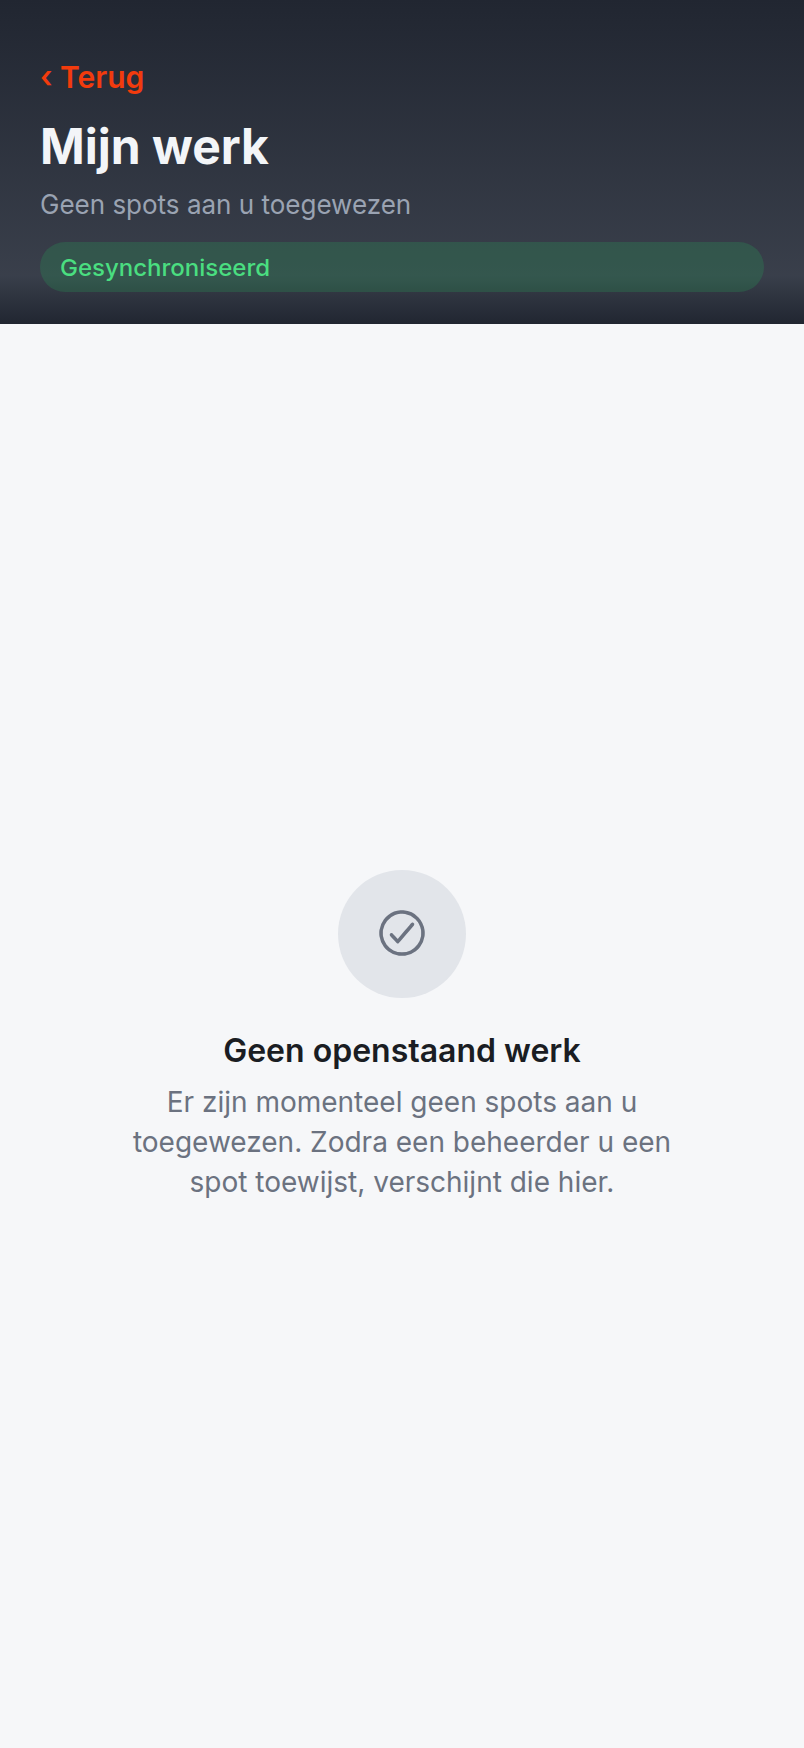
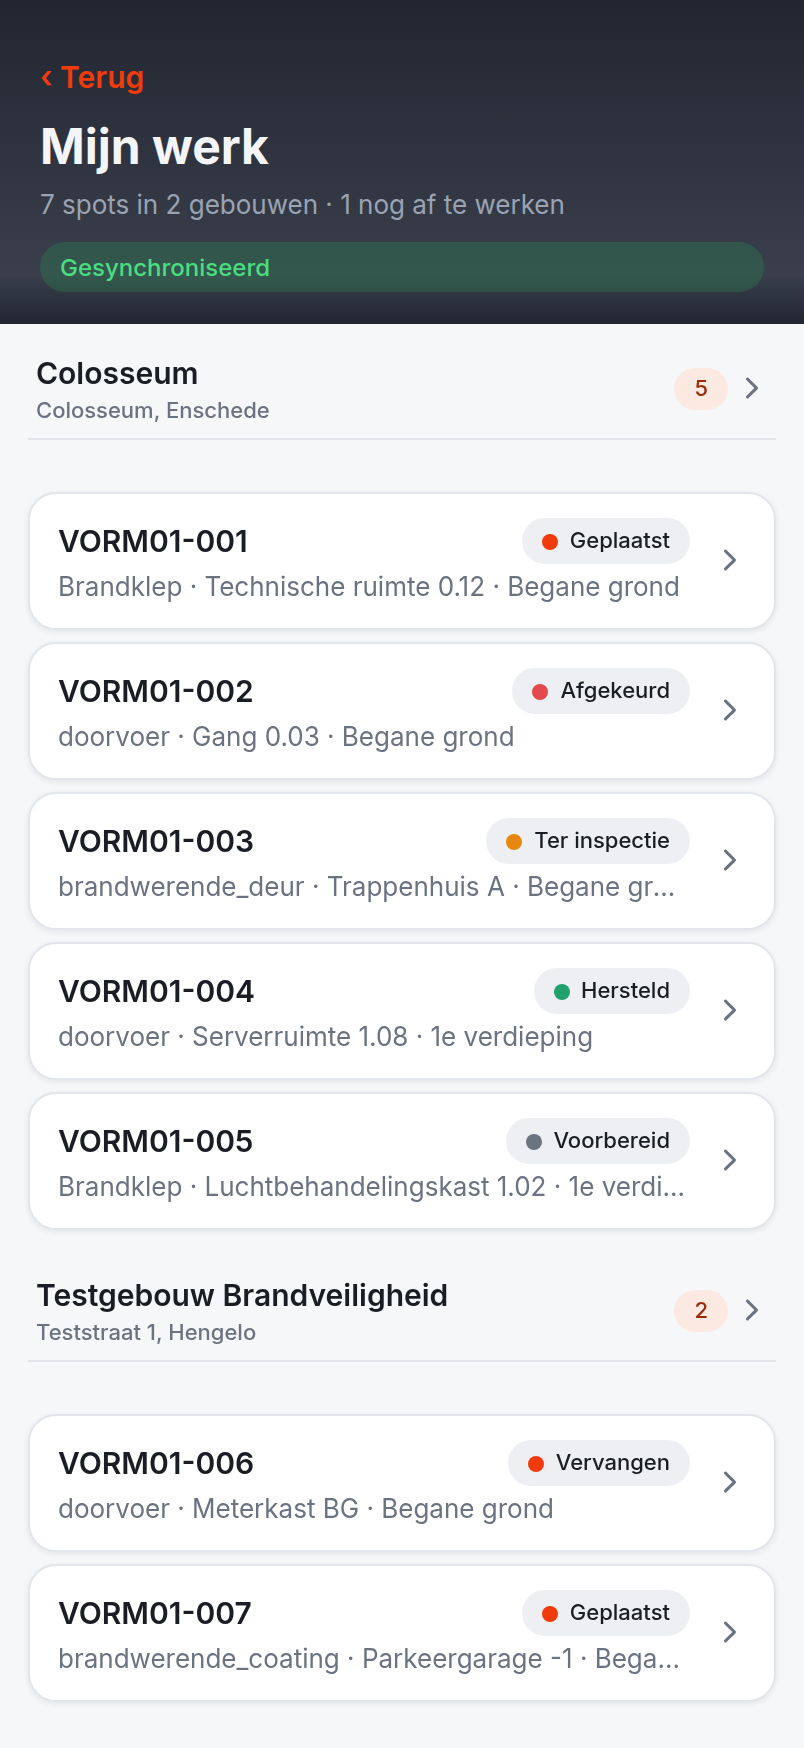
VORM_01 herbewijs: gevulde testdata (vorm01-testdata.ts), vóór/ná mijn-werk met inhoud, accent terug in LegeStatus, SCHERMEN-filter + retry in schermafdrukken

diff --git a/scripts/src/vorm01-testdata.ts b/scripts/src/vorm01-testdata.ts
@@ -1,0 +1,74 @@
+// VORM_01 herbewijs — vult de dev-database met representatieve spots voor het
+// e2e-monteursaccount, zodat het bewijsscherm app/mijn-werk.tsx met échte
+// rijen, statussen en secties kan worden afgebeeld (eis René 10-08).
+//
+// Idempotent: spots zijn herkenbaar aan objectnummer-prefix "VORM01-" en
+// worden bij elke run eerst opgeruimd. MODUS=weg ruimt alleen op.
+//
+// Draaien: pnpm --filter @workspace/scripts exec tsx src/vorm01-testdata.ts
+import { db } from "@workspace/db";
+import { sql } from "drizzle-orm";
+
+import { setupE2eAccount } from "./e2e-monteur-testaccount";
+
+const ALLEEN_OPRUIMEN = process.env["MODUS"] === "weg";
+
+async function zorgVoorVerdieping(gebouwId: number, naam: string): Promise<number> {
+  const bestaand = (
+    await db.execute(sql`SELECT id FROM verdiepingen WHERE gebouw_id = ${gebouwId} AND naam = ${naam} LIMIT 1`)
+  ).rows as { id: number }[];
+  if (bestaand[0]) return bestaand[0].id;
+  const nieuw = (
+    await db.execute(sql`INSERT INTO verdiepingen (gebouw_id, naam) VALUES (${gebouwId}, ${naam}) RETURNING id`)
+  ).rows as { id: number }[];
+  return nieuw[0]!.id;
+}
+
+async function main(): Promise<void> {
+  await db.execute(sql`DELETE FROM voorzieningen WHERE objectnummer LIKE 'VORM01-%'`);
+  if (ALLEEN_OPRUIMEN) {
+    console.log("VORM01-testspots opgeruimd.");
+    return;
+  }
+
+  const monteurId = await setupE2eAccount();
+
+  // Twee gebouwen zodat het scherm meerdere secties toont.
+  const colosseum = 13;
+  const testgebouw = 14;
+  const colosseumBg = await zorgVoorVerdieping(colosseum, "Begane grond");
+  const colosseumV1 = await zorgVoorVerdieping(colosseum, "1e verdieping");
+  const testgebouwBg = await zorgVoorVerdieping(testgebouw, "Begane grond");
+
+  const spots: Array<{
+    nr: string;
+    type: string;
+    status: string;
+    ruimte: string;
+    verdieping: number;
+    gebouw: number;
+  }> = [
+    { nr: "VORM01-001", type: "brandklep", status: "geplaatst", ruimte: "Technische ruimte 0.12", verdieping: colosseumBg, gebouw: colosseum },
+    { nr: "VORM01-002", type: "doorvoer", status: "afgekeurd", ruimte: "Gang 0.03", verdieping: colosseumBg, gebouw: colosseum },
+    { nr: "VORM01-003", type: "brandwerende_deur", status: "ter_inspectie", ruimte: "Trappenhuis A", verdieping: colosseumBg, gebouw: colosseum },
+    { nr: "VORM01-004", type: "doorvoer", status: "hersteld", ruimte: "Serverruimte 1.08", verdieping: colosseumV1, gebouw: colosseum },
+    { nr: "VORM01-005", type: "brandklep", status: "voorbereid", ruimte: "Luchtbehandelingskast 1.02", verdieping: colosseumV1, gebouw: colosseum },
+    { nr: "VORM01-006", type: "doorvoer", status: "vervangen", ruimte: "Meterkast BG", verdieping: testgebouwBg, gebouw: testgebouw },
+    { nr: "VORM01-007", type: "brandwerende_coating", status: "geplaatst", ruimte: "Parkeergarage -1", verdieping: testgebouwBg, gebouw: testgebouw },
+  ];
+
+  for (const s of spots) {
+    await db.execute(sql`
+      INSERT INTO voorzieningen (objectnummer, type, status, classificatie, gebouw_id, verdieping_id, ruimte, monteur_id)
+      VALUES (${s.nr}, ${s.type}, ${s.status}, '60', ${s.gebouw}, ${s.verdieping}, ${s.ruimte}, ${monteurId})
+    `);
+  }
+  console.log(`Klaar: ${spots.length} VORM01-testspots toegewezen aan e2e-account ${monteurId}.`);
+}
+
+main()
+  .then(() => process.exit(0))
+  .catch((fout) => {
+    console.error(fout);
+    process.exit(1);
+  });

diff --git a/scripts/src/vorm01-schermafdrukken.ts b/scripts/src/vorm01-schermafdrukken.ts
@@ -60,7 +60,10 @@ async function main(): Promise<void> {
   const [werkdag] = (await db.execute(sql`SELECT id FROM planning_items ORDER BY id DESC LIMIT 1`)).rows as { id: number }[];
   const [gebouw] = (await db.execute(sql`SELECT id FROM gebouwen WHERE gearchiveerd IS NOT TRUE ORDER BY id LIMIT 1`)).rows as { id: number }[];
 
-  const SCHERMEN: { naam: string; pad: string; klikLabel?: string }[] = [
+  // Optioneel filter: SCHERMEN=mijn-werk,uren draait alleen die schermen.
+  const filter = (process.env["SCHERMEN"] ?? "").split(",").map((s) => s.trim()).filter(Boolean);
+
+  const ALLE_SCHERMEN: { naam: string; pad: string; klikLabel?: string }[] = [
     { naam: "mijn-werk", pad: "/mijn-werk" },
     { naam: "menu", pad: "/menu" },
     // Dev-database heeft 0 planning_items (gemeten): dan valt werkdag/[id]
@@ -72,6 +75,7 @@ async function main(): Promise<void> {
     ...(gebouw ? [{ naam: "gebouw-id", pad: `/gebouw/${gebouw.id}` }] : []),
     { naam: "hrm-index", pad: "/hrm" },
   ];
+  const SCHERMEN = filter.length ? ALLE_SCHERMEN.filter((s) => filter.includes(s.naam)) : ALLE_SCHERMEN;
 
   const executablePath = execSync("which chromium").toString().trim();
   const browser = await chromium.launch({ executablePath });
@@ -93,7 +97,15 @@ async function main(): Promise<void> {
         await page.goto(BASIS + s.pad);
       }
       await page.waitForTimeout(5000); // data + animaties tot rust laten komen
-      const url = new URL(page.url());
+      let url = new URL(page.url());
+      // Oude builds zonder bezigLaden-guard verliezen de eerste deep-link-race
+      // (redirect naar /menu); een tweede navigatie slaagt omdat het token dan
+      // al hersteld is.
+      for (let poging = 0; poging < 2 && !url.pathname.startsWith(s.pad === "/menu" ? "/menu" : s.pad); poging++) {
+        await page.goto(BASIS + s.pad);
+        await page.waitForTimeout(5000);
+        url = new URL(page.url());
+      }
       if (!url.pathname.startsWith(s.pad === "/menu" ? "/menu" : s.pad)) {
         console.warn(`⚠ ${s.naam}: verwacht ${s.pad}, staat op ${url.pathname}`);
       }

diff --git a/artifacts/monteur-app/components/LegeStatus.tsx b/artifacts/monteur-app/components/LegeStatus.tsx
@@ -40,13 +40,13 @@ export function LegeStatus({
             width: 64,
             height: 64,
             borderRadius: 32,
-            backgroundColor: c.border,
+            backgroundColor: c.accent,
             alignItems: "center",
             justifyContent: "center",
             marginBottom: 16,
           }}
         >
-          <Ionicons name={icoon} size={28} color={c.mutedForeground} />
+          <Ionicons name={icoon} size={28} color={c.primary} />
         </View>
       )}
       <Text

diff --git a/docs/antwoorden/VORM_01.md b/docs/antwoorden/VORM_01.md
@@ -2,6 +2,15 @@
 
 **Datum: 10 augustus 2026 · status: F0 t/m F5 gereed, wacht op akkoord René vóór F6.**
 
+## 0. Herbewijs-ronde (na eerste beoordeling René, 10-08)
+
+1. **Bewijs opnieuw met gevulde gegevens:** nieuw script `scripts/src/vorm01-testdata.ts` zet 7 representatieve spots (2 gebouwen, 6 verschillende statussen) op het e2e-account (idempotent, prefix `VORM01-`, `MODUS=weg` ruimt op). Vóór/ná van `mijn-werk` is opnieuw gemaakt **mét inhoud**: Kaart, Rij, Statusmerk, SchermKop en de sectiekoppen zijn nu zichtbaar te vergelijken. Voor de vóór-afdruk is de oude schermversie tijdelijk teruggezet met alléén de (stijl-neutrale) `bezigLaden`-guard erin — zonder die guard verliest de oude build elke deep-link.
+2. **Accentverlies lege toestand teruggedraaid:** `LegeStatus` toont het pictogram weer in merkkleur op een zacht-oranje cirkel (`c.primary` op `c.accent`), zoals vóór de omzetting. Gecontroleerd op systematiek: dit was de enige plek waar accent door grijs was vervangen; `Statusmerk` gebruikt bewust een gekleurd bolletje + neutrale tekst (AA-afweging §1.6) en de overige bouwstenen gebruiken gedempte kleur alleen voor ondergeschikte tekst/pictogrammen, zoals ook vóór VORM_01.
+3. **Mijn werk — voorstel voor de ingang (nog niet gebouwd, keuze aan René):**
+   - **Optie A — 18e radiaalmenu-item.** Voordeel: overal bereikbaar. Nadeel: het radiaalmenu is al vol; een extra item verhoogt de menudrukte voor iets dat inhoudelijk bij de werkdag hoort.
+   - **Optie B — ingang vanaf Mijn werkdag.** De regel "N locaties vandaag" (die zijn teller nu al uit `/mijn-werk`-data haalt) wordt aanklikbaar en opent Mijn werk. Voordeel: nul extra menudrukte, de ingang staat precies waar de monteur al kijkt, en de bestaande teller krijgt betekenis. Nadeel: één tik dieper dan het menu.
+   - **Afweging/advies: optie B** — laagste menudruk, logische plek (werkdag verwijst er al impliciet naar), geen wijziging aan het radiaalmenu.
+
 ## Fase-overzicht
 
 | Fase | Resultaat |

diff --git a/docs/changelog.md b/docs/changelog.md
@@ -1,3 +1,9 @@
+## 2026-08-10 — VORM_01 herbewijs-ronde: gevuld bewijsscherm, accent terug in lege toestand
+
+- **Uitvoering:** volledig (3 punten René) | **Kwaliteit:** hoog | **Risico:** laag (alleen testdata-script, 1 kleurherstel, screenshots)
+
+Op verzoek van René is het F5-bewijs overgedaan **mét inhoud**: `scripts/src/vorm01-testdata.ts` zet 7 spots (2 gebouwen, 6 statussen) op het e2e-account, en de vóór/ná-afdrukken van `mijn-werk` tonen nu Kaart, Rij, Statusmerk en sectiekoppen naast elkaar (voor de vóór-afdruk is de oude schermversie tijdelijk teruggezet). **Accent hersteld:** `LegeStatus` toont het pictogram weer in merkkleur op de zacht-oranje cirkel; gecontroleerd dat dit de enige plek was waar accent door grijs was vervangen (Statusmerk-bolletje + neutrale tekst is de bewuste AA-keuze en blijft). **Mijn werk-ingang:** voorstel met afweging in `docs/antwoorden/VORM_01.md` §0.3 (advies: aanklikbare "N locaties vandaag"-regel op Mijn werkdag i.p.v. een 18e menu-item) — keuze aan René, nog niet gebouwd. F6 blijft wachten op akkoord.
+
 ## 2026-08-10 — VORM_01 F0–F5: één ontwerpsysteem — tokens, gedeelde bron, bouwstenen, bewijs op Mijn werk
 
 - **Uitvoering:** F0 t/m F5 volledig; **F6 (58 schermen omzetten) bewust niet gestart — wacht op akkoord René** conform §fasering | **Kwaliteit:** hoog | **Risico:** laag-middel (geen migraties; donkere stand wordt systeembreed actief voor alles wat al via `useColors()` loopt)

diff --git a/.agents/memory/ontwerp-tokens.md b/.agents/memory/ontwerp-tokens.md
@@ -9,4 +9,5 @@ description: Eén gedeelde tokenbron @workspace/ontwerp voor web + Expo; regels 
 - Webafleiding (firevault injecteerOntwerpTokens) dekt bewust alleen merk- en bewegingstokens (primary/destructive/ring/radius/duren); oppervlaktekleuren blijven web-eigen in index.css — gelijktrekken zou de webstijl stilzwijgend wijzigen.
 - Bouwstenen in monteur-app components/ui.tsx (15 stuks, o.a. Kaart/Rij/Statusmerk/Blad/Ladenstaat/Bedragregel + tekstStijl()): géén letterlijke kleur/maat/duur erin; statussen tonen via Statusmerk (bolletje + neutrale chip) omdat statuskleuren als tekst op licht geen AA halen. Beweging altijd achter useReducedMotion.
 - Schermen met een `!token`-redirect: guard hoort in een wrapper-component boven alle hooks én achter `bezigLaden` uit useAuth — anders (a) crasht de hook-volgorde zodra het token alsnog laadt en (b) verliezen deep-links de race met async token-herstel (eindigen op /login→/menu).
+- Lege staten houden het merkaccent (icoon c.primary op c.accent-cirkel) — René keurde grijs-op-grijs expliciet af; alleen Statusmerk is bewust neutraal (AA). Bewijs-schermafdrukken altijd met gevulde testdata (scripts/src/vorm01-testdata.ts, prefix VORM01-, MODUS=weg ruimt op).
 - Vóór/ná-schermafdrukken: scripts/src/vorm01-schermafdrukken.ts (deep-links, MODUS=na); page.addInitScript als string doorgeven, niet als callback (Node-typecheck kent window niet).
